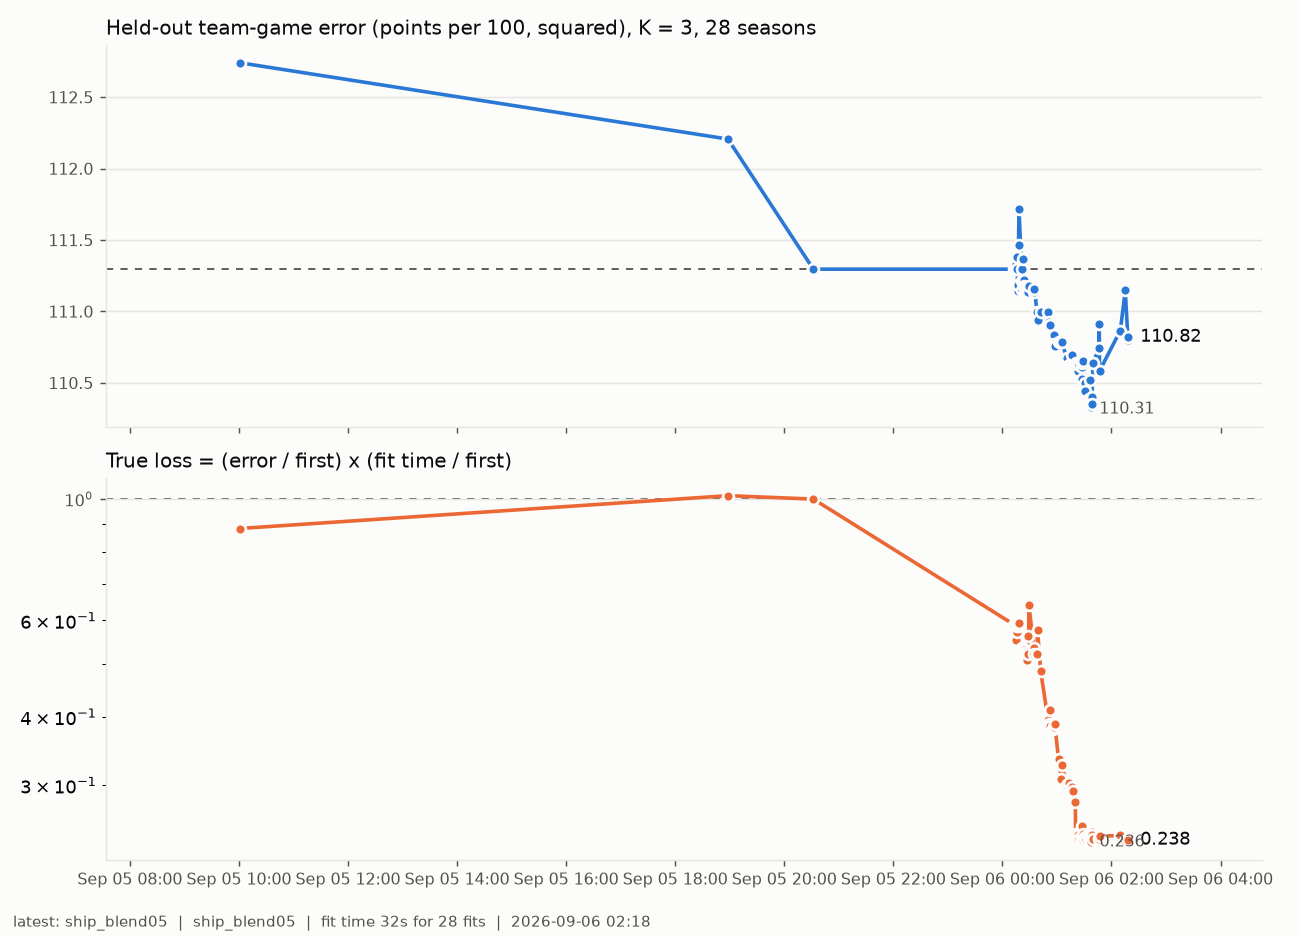
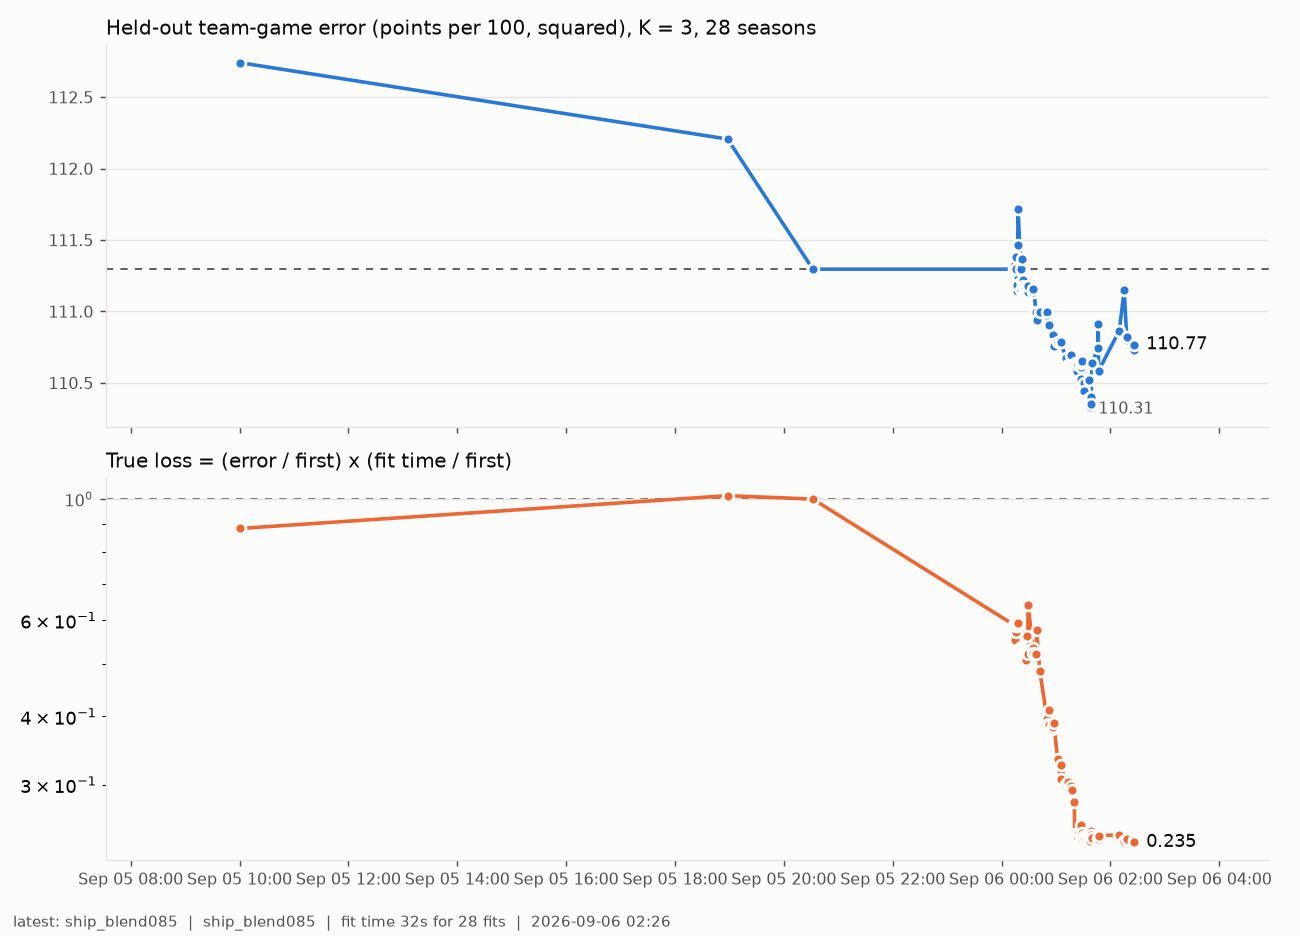
Blend reads (defensive blend fails, 0.85 passes but stays); GBDT feature-list knob

diff --git a/src/eracoef/holdout.py b/src/eracoef/holdout.py
@@ -134,10 +134,12 @@ class Context:
             ctx.mspi_apm = GBDTPrior(ctx.rpanel, cfg, mode="full", target_col="apm")   # trained on unshrunk APM
         return ctx
 
-    def prior(self, mode: str, target_col: str | None, params: dict, panel: str | None = None):
-        """A GBDTPrior with chimeraboost overrides `params`, built once per (mode, target, params, panel) on this
-        Context.  `panel`: a role panel other than the configured one (a path relative to the root)."""
-        key = (mode, target_col, tuple(sorted((params or {}).items())), panel)
+    def prior(self, mode: str, target_col: str | None, params: dict, panel: str | None = None, features=None):
+        """A GBDTPrior with chimeraboost overrides `params`, built once per (mode, target, params, panel, features)
+        on this Context.  `panel`: a role panel other than the configured one (a path relative to the root);
+        `features`: {"O": [...], "D": [...]} instead of the configured lists."""
+        fkey = None if not features else tuple((k, tuple(v)) for k, v in sorted(features.items()))
+        key = (mode, target_col, tuple(sorted((params or {}).items())), panel, fkey)
         if key not in self._priors:
             rp = self.rpanel
             if panel:
@@ -148,7 +150,7 @@ class Context:
             if target_col and target_col.startswith("blend"):          # "blend0.7": 0.7 apm + 0.3 rapm1, raw sign
                 wgt = float(target_col[5:])
                 rp = rp.assign(**{target_col: wgt * rp["apm"].to_numpy(dtype=float) + (1.0 - wgt) * rp["rapm1"].to_numpy(dtype=float)})
-            p = GBDTPrior(rp, self.cfg, mode=mode, target_col=target_col)
+            p = GBDTPrior(rp, self.cfg, mode=mode, target_col=target_col, features=features)
             p.params = dict(params or {})
             self._priors[key] = p
         return self._priors[key]

diff --git a/src/eracoef/systems.py b/src/eracoef/systems.py
@@ -124,9 +124,17 @@ def registry(cfg, rankmap=None, calmap=None) -> dict:
         S["ship_rapm1"] = MspiFast("ship_rapm1", gbdt_params=FAST)
         S["ship_p05"] = MspiFast("ship_p05", gbdt_params=FAST, panel="outputs/role_panel_lam0.5.parquet")
         # a blended offensive target (w APM + (1 - w) RAPM_1), RAPM_1 on defense: between the two floors
-        for w in (0.5, 0.7):
+        for w in (0.5, 0.7, 0.85):
             S[f"ship_blend{w:g}".replace(".", "")] = MspiFast(f"ship_blend{w:g}".replace(".", ""), gbdt_params=FAST,
                                                                target=f"blend{w}", target_d="rapm1")
+        S["ship_b07d03"] = MspiFast("ship_b07d03", gbdt_params=FAST, target="blend0.7", target_d="blend0.3")
+        from .design import FEATURES as _F
+        ALLF = [*_F, "season", "share", "gs_pct", "age"]
+        S["best_allfeat"] = MspiFast("best_allfeat", gbdt_params=FAST, decay=0.5, decay_exposure=True, target="apm",
+                                     gbdt_features={"O": ALLF, "D": ALLF})
+        S["best_apm300"] = MspiFast("best_apm300", gbdt_params=FAST, decay=0.5, decay_exposure=True, target="apm",
+                                    panel="outputs/role_panel_apm300.parquet")
+        S["best_b07"] = MspiFast("best_b07", gbdt_params=FAST, target="blend0.7", target_d="rapm1", decay=0.5, decay_exposure=True)
         S["ship_p035"] = MspiFast("ship_p035", gbdt_params=FAST, panel="outputs/role_panel_lam0.35.parquet")
         S["best_mix"] = MspiFast("best_mix", gbdt_params=FAST, target="apm", target_d="rapm1", decay=0.5, decay_exposure=True)
         BEST = dict(lam=L05, gbdt_params=FAST, decay=0.5, decay_exposure=True)

diff --git a/src/eracoef/spm.py b/src/eracoef/spm.py
@@ -136,7 +136,8 @@ def season_of_units(wd) -> np.ndarray:
 
 
 def chain_offset(gbdt_sides=(), mode: str = "residual", scale: float = 1.0, target: str = "rapm1",
-                 params: dict | None = None, panel: str | None = None, target_d: str | None = None) -> Callable:
+                 params: dict | None = None, panel: str | None = None, target_d: str | None = None,
+                 features: dict | None = None) -> Callable:
     """The per-player offset builder for a PluginSystem.  Signature `offset(train, ctx, wd) -> (2 * n_ps,)`,
     raw sign, possession-centred per side.
 
@@ -178,9 +179,9 @@ def chain_offset(gbdt_sides=(), mode: str = "residual", scale: float = 1.0, targ
             def col(t):
                 return t if (t == "apm" or t.startswith("blend")) else None
 
-            if params or panel or target_d or target.startswith("blend"):
-                prior_o = ctx.prior(mode, col(target), params, panel)
-                prior_d = ctx.prior(mode, col(t_d), params, panel)
+            if params or panel or target_d or features or target.startswith("blend"):
+                prior_o = ctx.prior(mode, col(target), params, panel, features)
+                prior_d = ctx.prior(mode, col(t_d), params, panel, features)
             else:
                 prior_o = ctx.gbdt if mode == "residual" else getattr(ctx, "mspi_apm" if target == "apm" else "mspi", None)
                 prior_d = prior_o

diff --git a/src/eracoef/fastfit.py b/src/eracoef/fastfit.py
@@ -76,6 +76,7 @@ class MspiFast:
     pad_target: str | None = None        # BoxExposure pad_target ("league" | "poss_conditional"); None = config
     panel: str | None = None             # a role panel other than the configured one for the GBDT prior (path)
     target_d: str | None = None          # the GBDT's training target on DEFENSE when it differs from `target`
+    gbdt_features: dict | None = None    # {"O": [...], "D": [...]} for the GBDT instead of the configured lists
 
     def fit(self, train, ctx: Context) -> Ratings:
         from . import xshoot
@@ -124,7 +125,8 @@ class MspiFast:
         else:
             exp.fit(wd.X, sample_weight=wd.w)
         off = chain_offset(self.sides, self.mode, scale=self.scale, target=self.target,
-                           params=self.gbdt_params, panel=self.panel, target_d=self.target_d)(train, ctx, wd, exp=exp)
+                           params=self.gbdt_params, panel=self.panel, target_d=self.target_d,
+                           features=self.gbdt_features)(train, ctx, wd, exp=exp)
         nf = len(wd.spec.features)
         beta = np.zeros(2 * nf)
         lam = float(cfg["lam_plugin"] if self.lam is None else self.lam)

diff --git a/FINDINGS.md b/FINDINGS.md
@@ -2031,3 +2031,8 @@ consensus total UP (0.785 -> 0.796) and offense up (0.779 -> 0.804), defense 0.7
 `cal_map -> outputs/calmap_ship.parquet (ship_blend07_linear+log2&xlog&prior_linear+log2&xlog)`.  The chart's
 line stays the criterion's best (`best`, 110.32: the pure APM prior on both sides with the decay and the age
 term); what the floors allow is now 0.5 per 100 behind it.
+
+Two more blends against the floors: 0.3 APM on DEFENSE beside the 0.7 offense (`ship_b07d03`) scores 110.729
+and fails the defensive agreement (0.742); 0.85 APM on offense (`ship_blend085`) scores 110.768 and passes
+(bigness gap -0.271, defense 0.7665) -- 0.03 better than the 0.7 blend for 0.03 less margin on the bigness
+floor, not worth the churn.  The 0.7 blend stays shipped.
